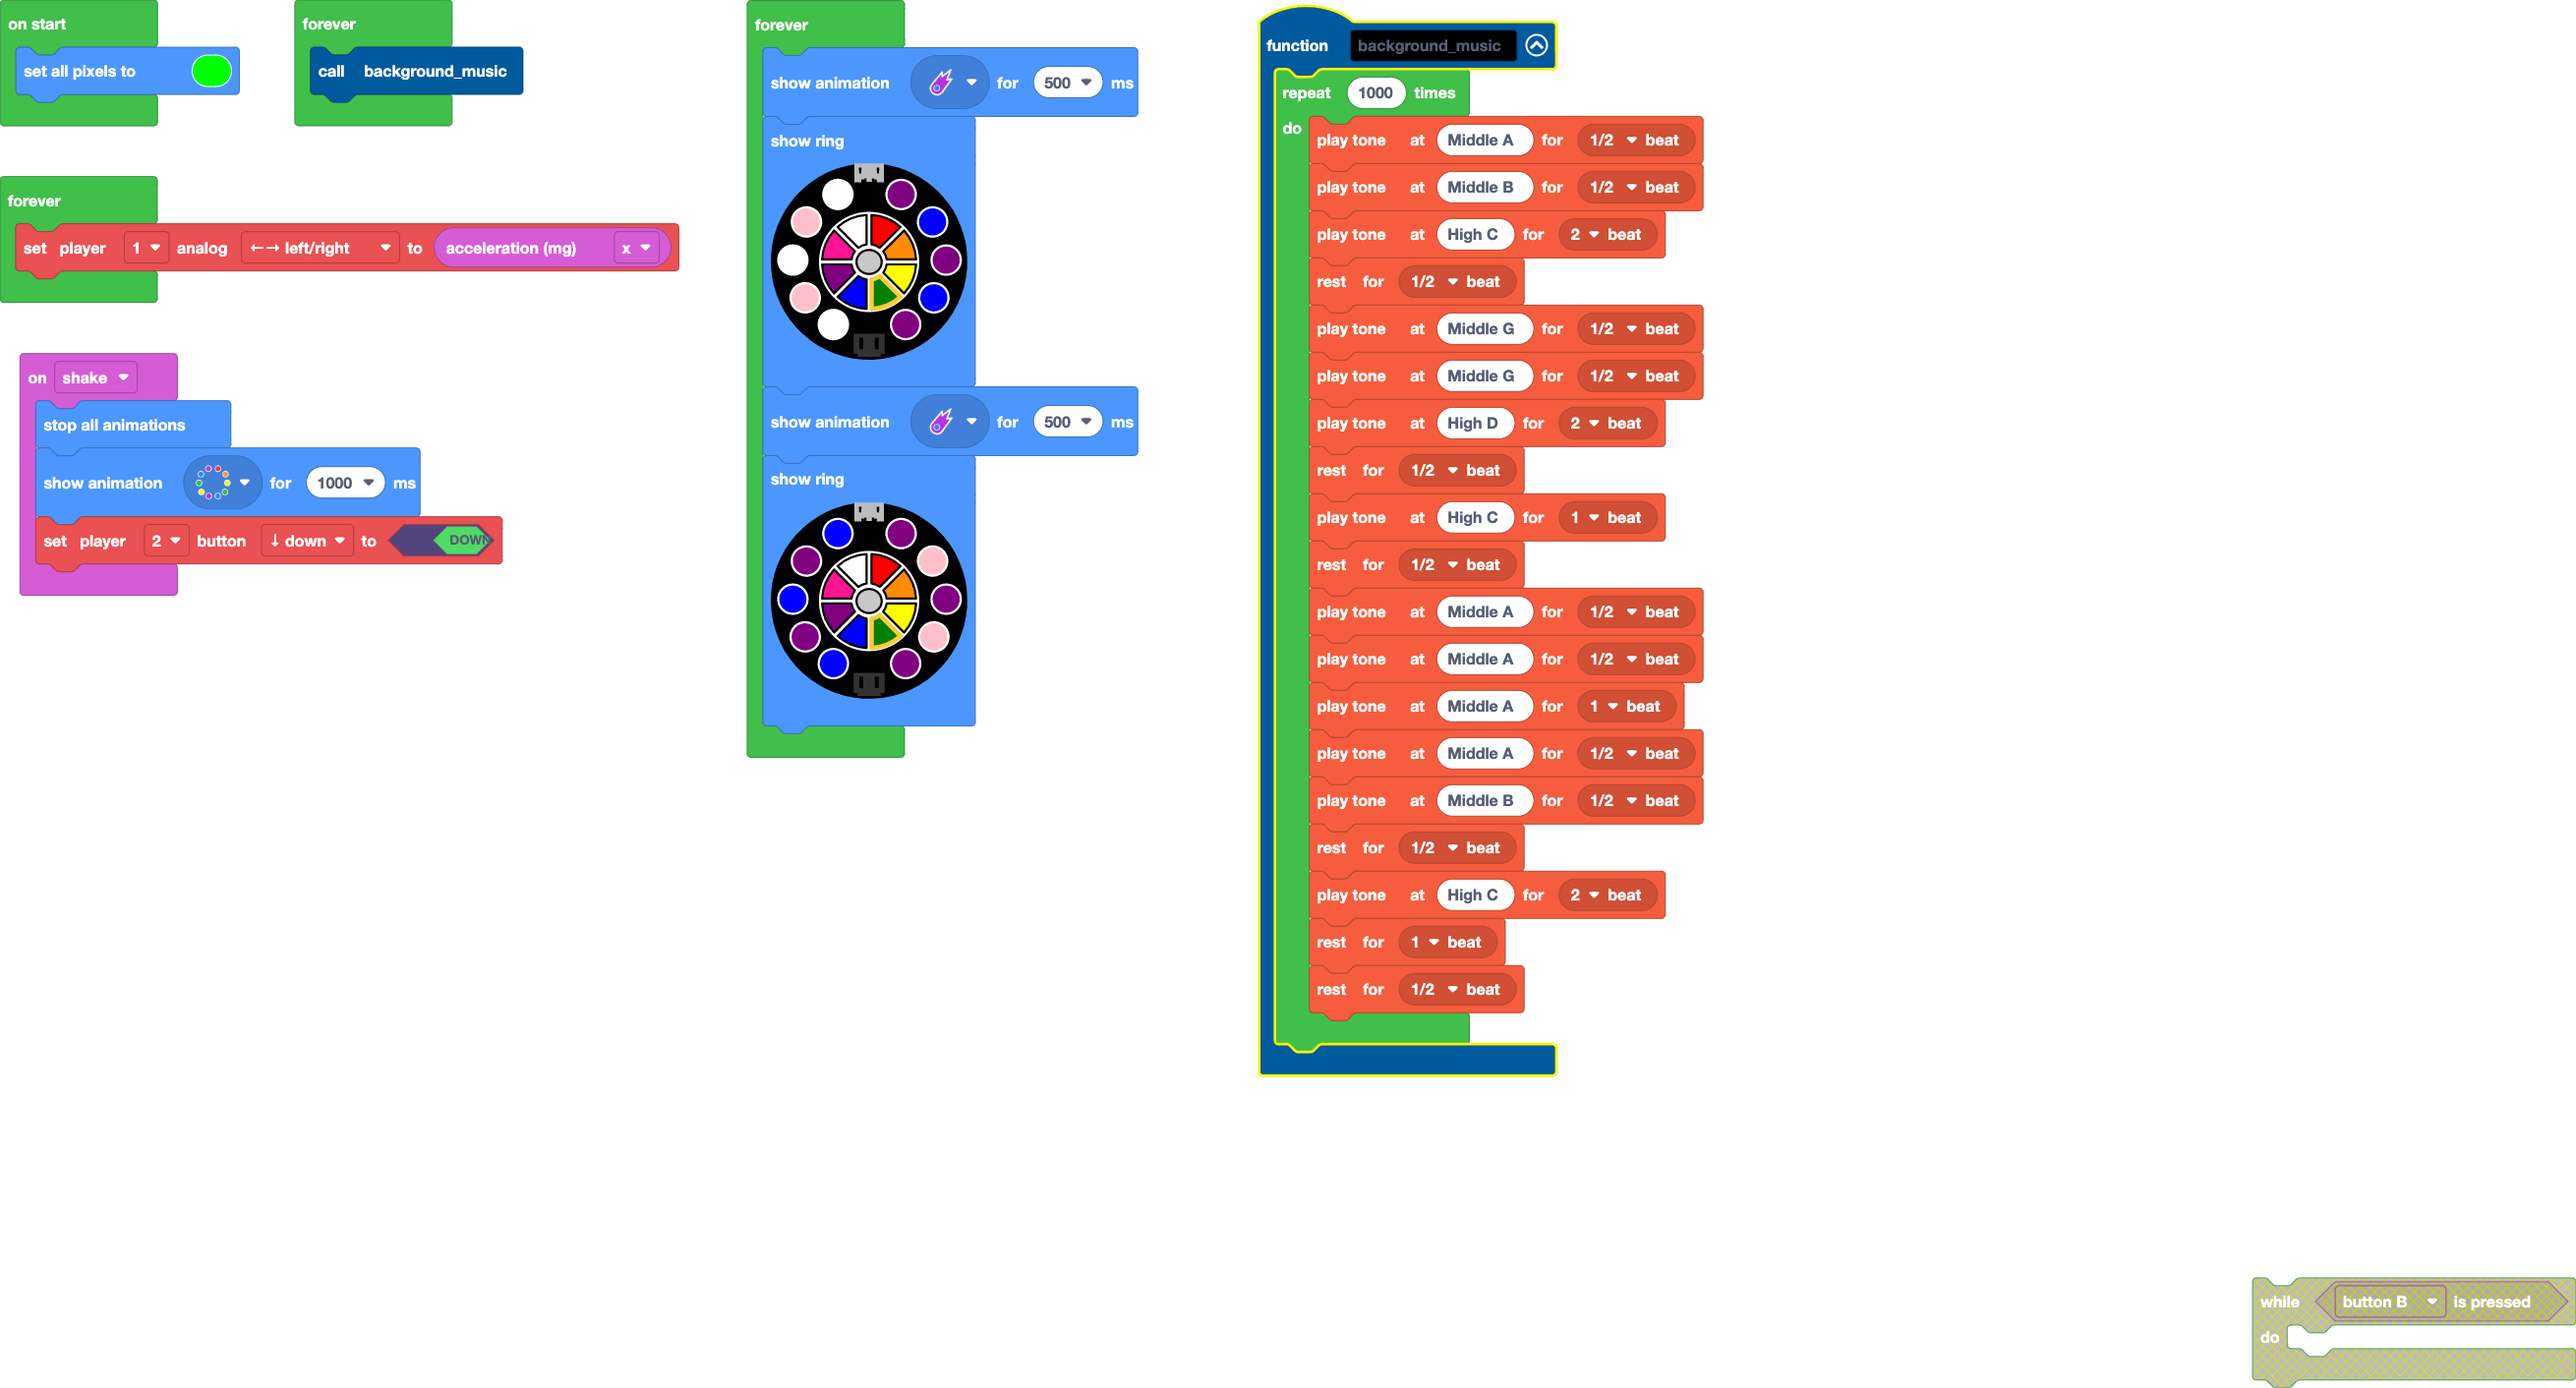
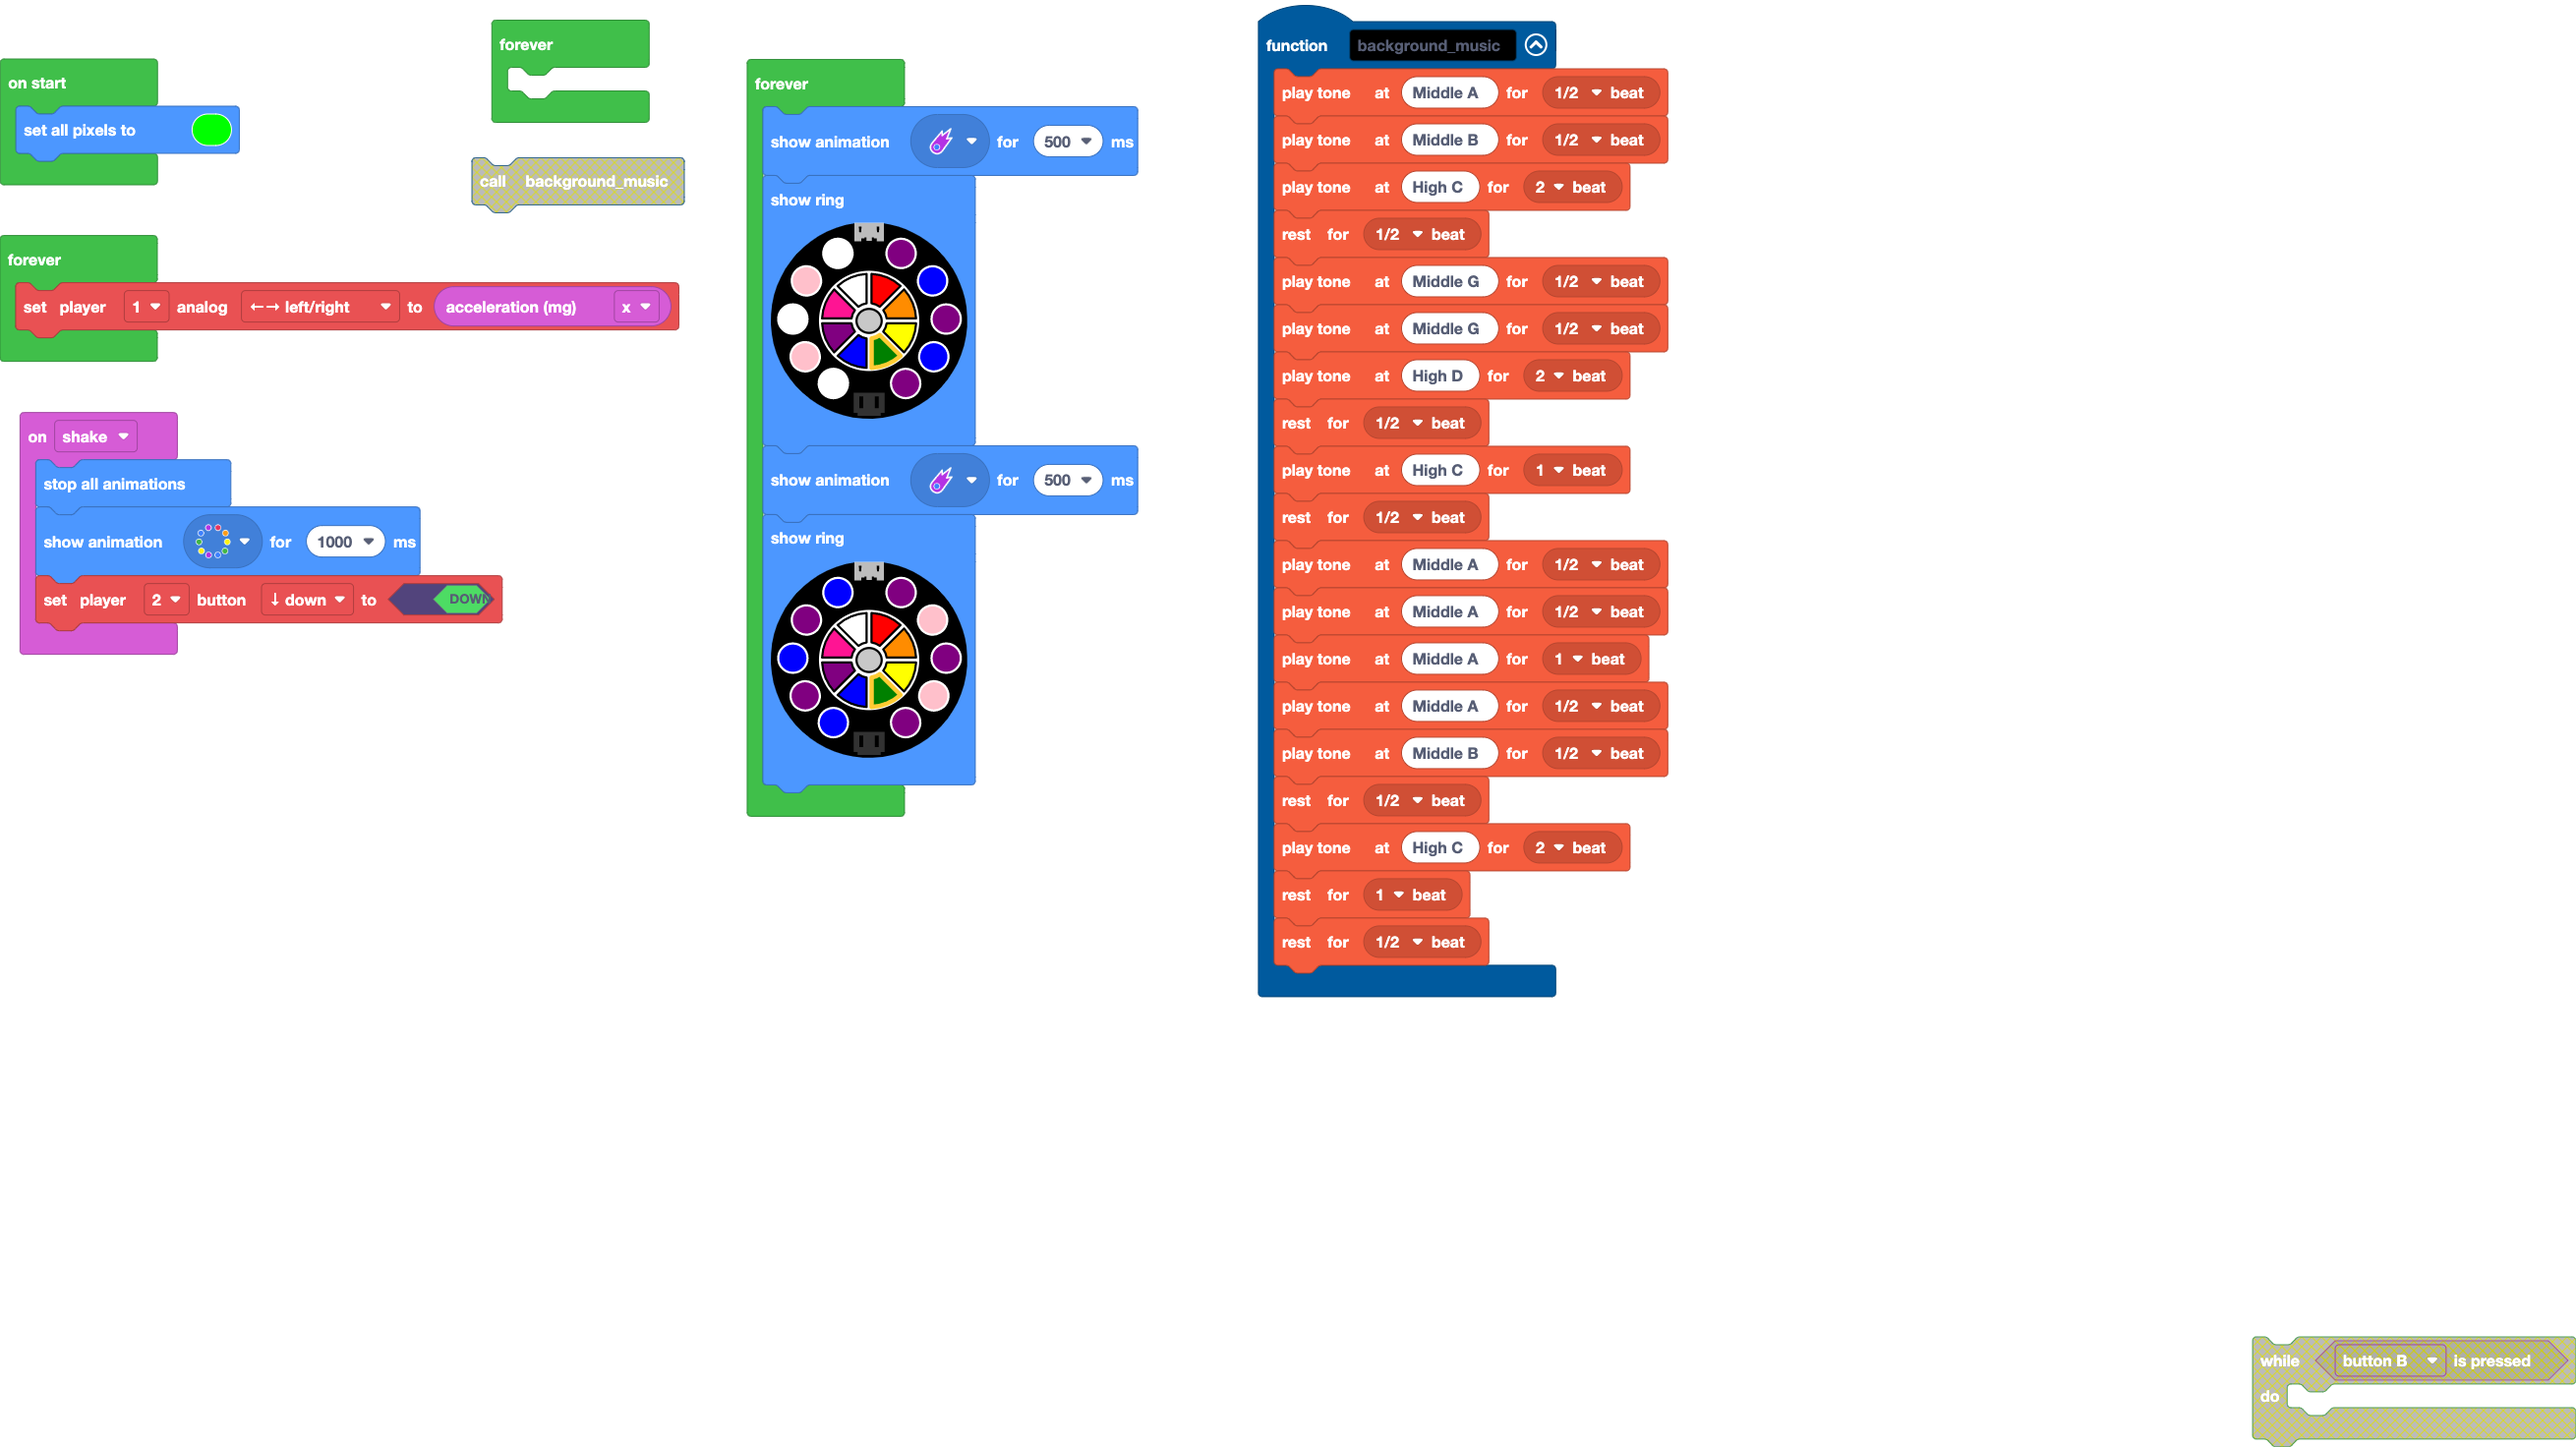
Update main.blocks, main.ts

Changed region(s): [[0.0, 0.0, 0.4637, 0.5921], [0.4637, 0.0, 0.6802, 0.779], [0.8656, 0.9037, 1.0, 0.9972]]

diff --git a/main.ts b/main.ts
@@ -4,31 +4,29 @@ input.onGesture(Gesture.Shake, function () {
     makerController.player2.setButton(ArcadeButton.Down, true)
 })
 function background_music () {
-    for (let index = 0; index < 1000; index++) {
-        music.playTone(440, music.beat(BeatFraction.Half))
-        music.playTone(494, music.beat(BeatFraction.Half))
-        music.playTone(523, music.beat(BeatFraction.Double))
-        music.rest(music.beat(BeatFraction.Half))
-        music.playTone(392, music.beat(BeatFraction.Half))
-        music.playTone(392, music.beat(BeatFraction.Half))
-        music.playTone(587, music.beat(BeatFraction.Double))
-        music.rest(music.beat(BeatFraction.Half))
-        music.playTone(523, music.beat(BeatFraction.Whole))
-        music.rest(music.beat(BeatFraction.Half))
-        music.playTone(440, music.beat(BeatFraction.Half))
-        music.playTone(440, music.beat(BeatFraction.Half))
-        music.playTone(440, music.beat(BeatFraction.Whole))
-        music.playTone(440, music.beat(BeatFraction.Half))
-        music.playTone(494, music.beat(BeatFraction.Half))
-        music.rest(music.beat(BeatFraction.Half))
-        music.playTone(523, music.beat(BeatFraction.Double))
-        music.rest(music.beat(BeatFraction.Whole))
-        music.rest(music.beat(BeatFraction.Half))
-    }
+    music.playTone(440, music.beat(BeatFraction.Half))
+    music.playTone(494, music.beat(BeatFraction.Half))
+    music.playTone(523, music.beat(BeatFraction.Double))
+    music.rest(music.beat(BeatFraction.Half))
+    music.playTone(392, music.beat(BeatFraction.Half))
+    music.playTone(392, music.beat(BeatFraction.Half))
+    music.playTone(587, music.beat(BeatFraction.Double))
+    music.rest(music.beat(BeatFraction.Half))
+    music.playTone(523, music.beat(BeatFraction.Whole))
+    music.rest(music.beat(BeatFraction.Half))
+    music.playTone(440, music.beat(BeatFraction.Half))
+    music.playTone(440, music.beat(BeatFraction.Half))
+    music.playTone(440, music.beat(BeatFraction.Whole))
+    music.playTone(440, music.beat(BeatFraction.Half))
+    music.playTone(494, music.beat(BeatFraction.Half))
+    music.rest(music.beat(BeatFraction.Half))
+    music.playTone(523, music.beat(BeatFraction.Double))
+    music.rest(music.beat(BeatFraction.Whole))
+    music.rest(music.beat(BeatFraction.Half))
 }
 light.setAll(0x00ff00)
 forever(function () {
-    background_music()
+	
 })
 forever(function () {
     light.showAnimation(light.cometAnimation, 500)
